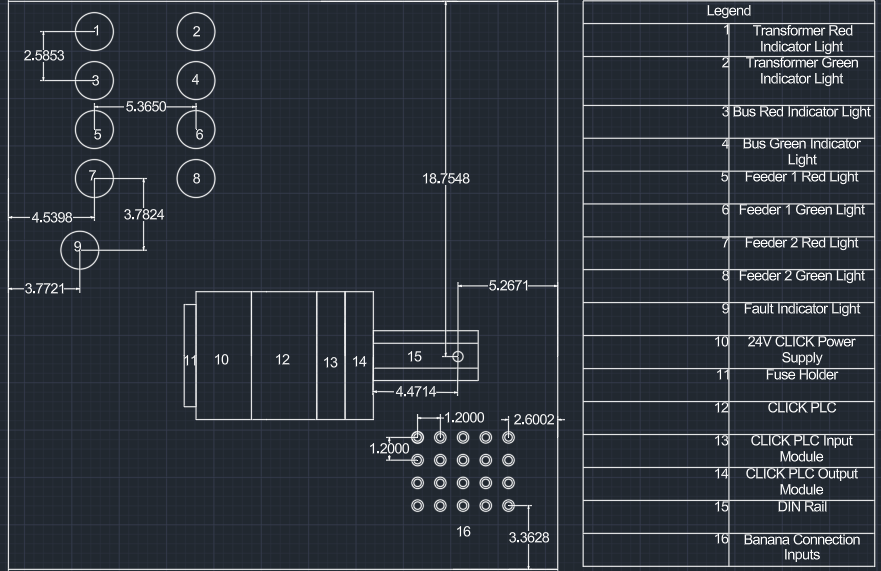
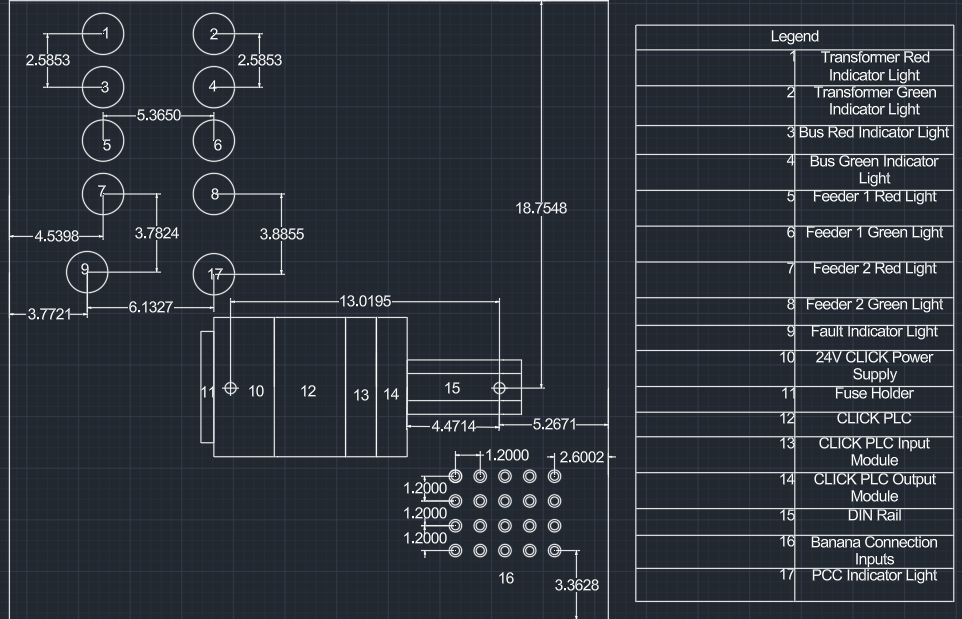
updated cad diagrams

diff --git a/tex/term_project/task_3/engineering_docs/Section_Draft_Diagrams.tex b/tex/term_project/task_3/engineering_docs/Section_Draft_Diagrams.tex
@@ -1,19 +1,19 @@
 \begin{figure}[H]
-  \begin{center}
-    \includegraphics[width=0.95\textwidth]{Pictures/Subpanel_2.png}
-  \end{center}
+	\begin{center}
+		\includegraphics[width=0.95\textwidth]{Pictures/Subpanel_2.png}
+	\end{center}
 \end{figure}
 
 \begin{figure}[H]
-  \begin{center}
-    \includegraphics[width=0.90\textwidth]{Pictures/Subpannel_3.png}
-  \end{center}
-  \caption{Sub panel 2 diagram}\label{fig2:}
+	\begin{center}
+		\includegraphics[width=0.90\textwidth]{Pictures/Subpanel_3.png}
+	\end{center}
+	\caption{Sub panel 2 diagram}\label{fig2:}
 \end{figure}
 
 \begin{figure}[H]
-  \begin{center}
-    \includegraphics[width=0.95\textwidth]{Pictures/PLC_Subpanel_1.png}
-  \end{center}
-  \caption{Sub panel 1 diagram}\label{fig1:}
+	\begin{center}
+		\includegraphics[width=0.95\textwidth]{Pictures/PLC_Subpanel_1.png}
+	\end{center}
+	\caption{Sub panel 1 diagram}\label{fig1:}
 \end{figure}

diff --git a/tex/term_project/task_3/operators-manual/Section_Diagram.tex b/tex/term_project/task_3/operators-manual/Section_Diagram.tex
@@ -1,6 +1,6 @@
 \begin{figure}[H]
-  \begin{center}
-    \includegraphics[width=0.5\textwidth]{Pictures/PLC_Overview.png}
-  \end{center}
-  \caption{Draft diagram of the full rack}\label{fig:}
+	\begin{center}
+		\includegraphics[width=0.5\textwidth]{Pictures/PLC_Overview.png}
+	\end{center}
+	\caption{Draft diagram of the full rack}\label{fig:}
 \end{figure}
